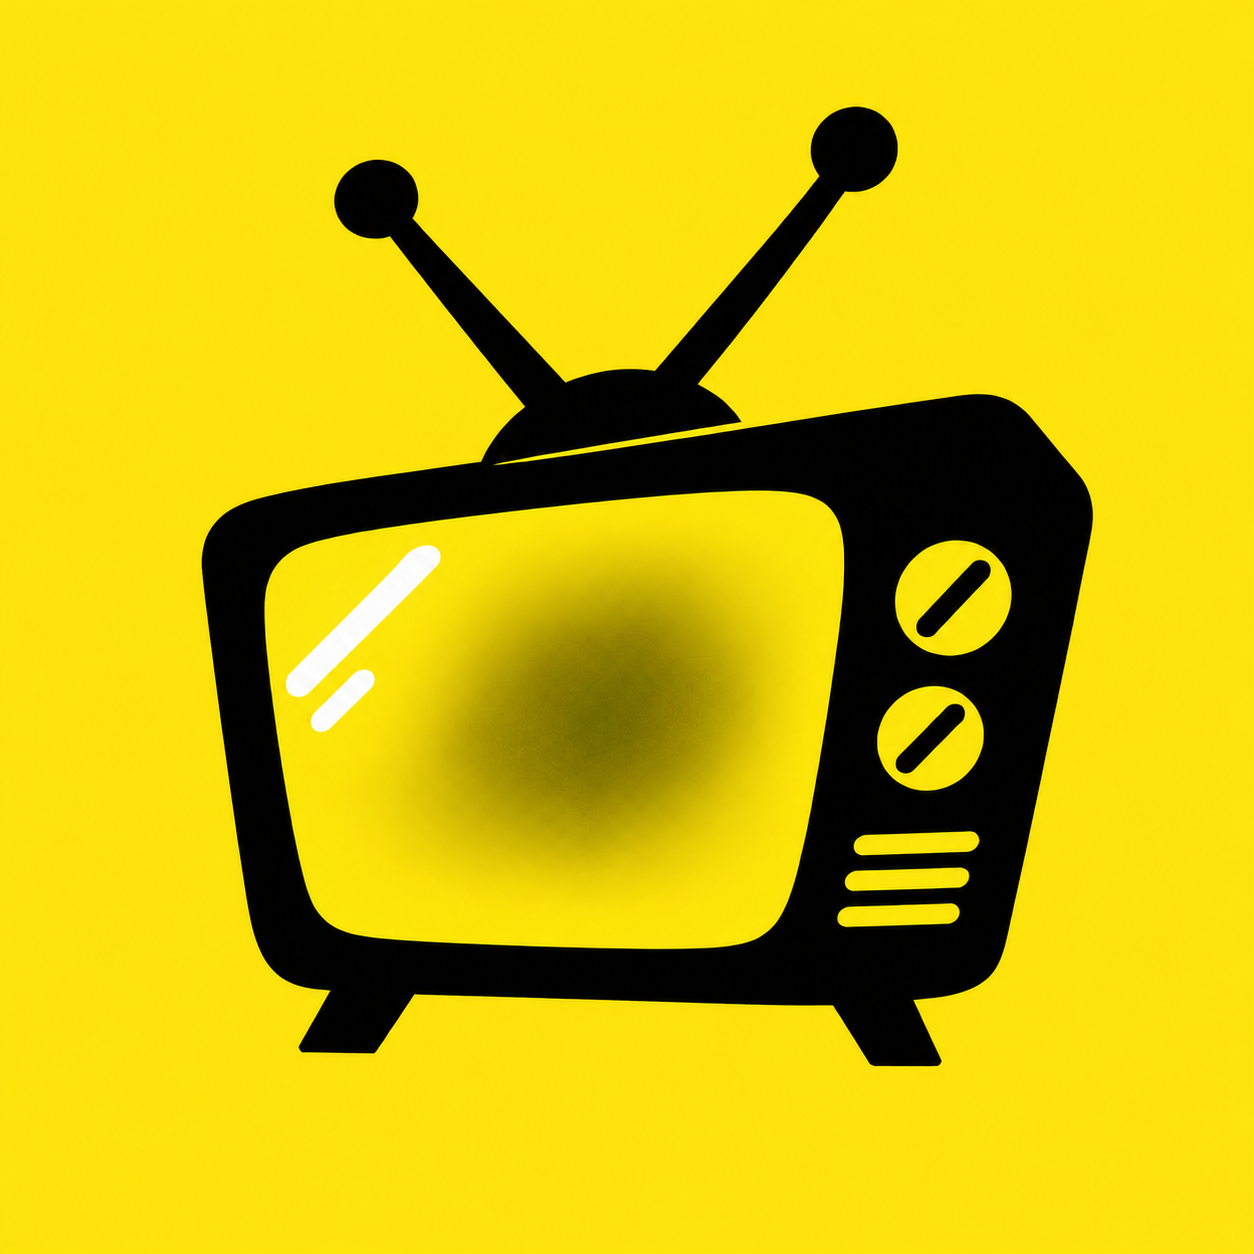
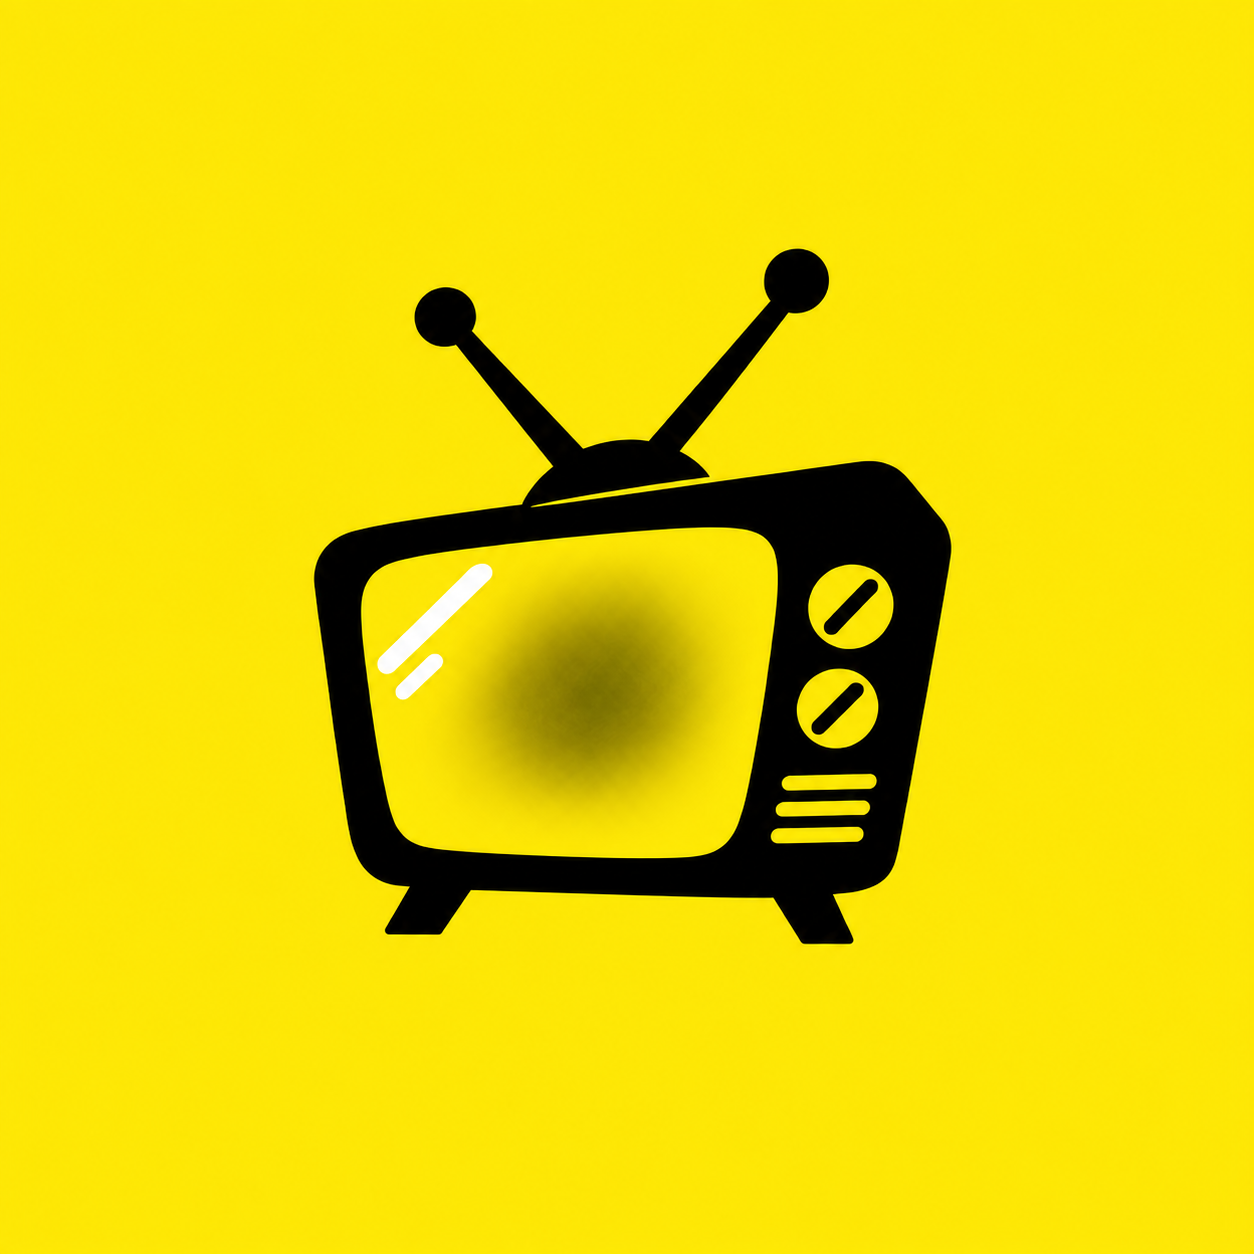
Refine installed app identity

Changed region(s): [[0.1555, 0.0622, 0.8708, 0.8708]]

diff --git a/app/layout.tsx b/app/layout.tsx
@@ -4,12 +4,13 @@ import './dashboard.css';
 import './brand.css';
 
 export const metadata: Metadata = {
-  title: 'Sword Art Online — Life Command',
+  title: 'Sword Art Online',
   description: 'A local-first life command dashboard for missions, time, routines, and daily progress.',
+  manifest: '/manifest.webmanifest',
   icons: {
-    icon: '/sao-tv-icon-v2.png',
-    shortcut: '/sao-tv-icon-v2.png',
-    apple: '/sao-tv-icon-v2.png',
+    icon: '/sao-tv-icon-v4-512.png',
+    shortcut: '/sao-tv-icon-v4-192.png',
+    apple: '/sao-tv-icon-v4-512.png',
   },
 };
 

diff --git a/docs/STYLE_GUIDE.md b/docs/STYLE_GUIDE.md
@@ -99,7 +99,7 @@ Rules:
 
 ### Browser identity icon
 
-- The canonical bookmark/favicon artwork is `app/icon.png`, with the cache-busted browser asset at `public/sao-tv-icon-v2.png`: a yellow field carrying one black retro CRT television silhouette.
+- The canonical bookmark/favicon artwork is `app/icon.png`, with cache-busted browser assets at `public/sao-tv-icon-v4-192.png` and `public/sao-tv-icon-v4-512.png`: a full-bleed yellow field carrying one black retro CRT television silhouette with a generous outer safe area. The web app manifest marks both assets as maskable so installed-app chrome does not add a white framing tile.
 - Preserve the TV body, antennas, controls, and screen as one readable mark with generous outer safe space. It must remain identifiable at 16 × 16 pixels.
 - The icon is separate from the in-page wordmark and must not contain title text, characters, rainbow stripes, or official Persona assets.
 
